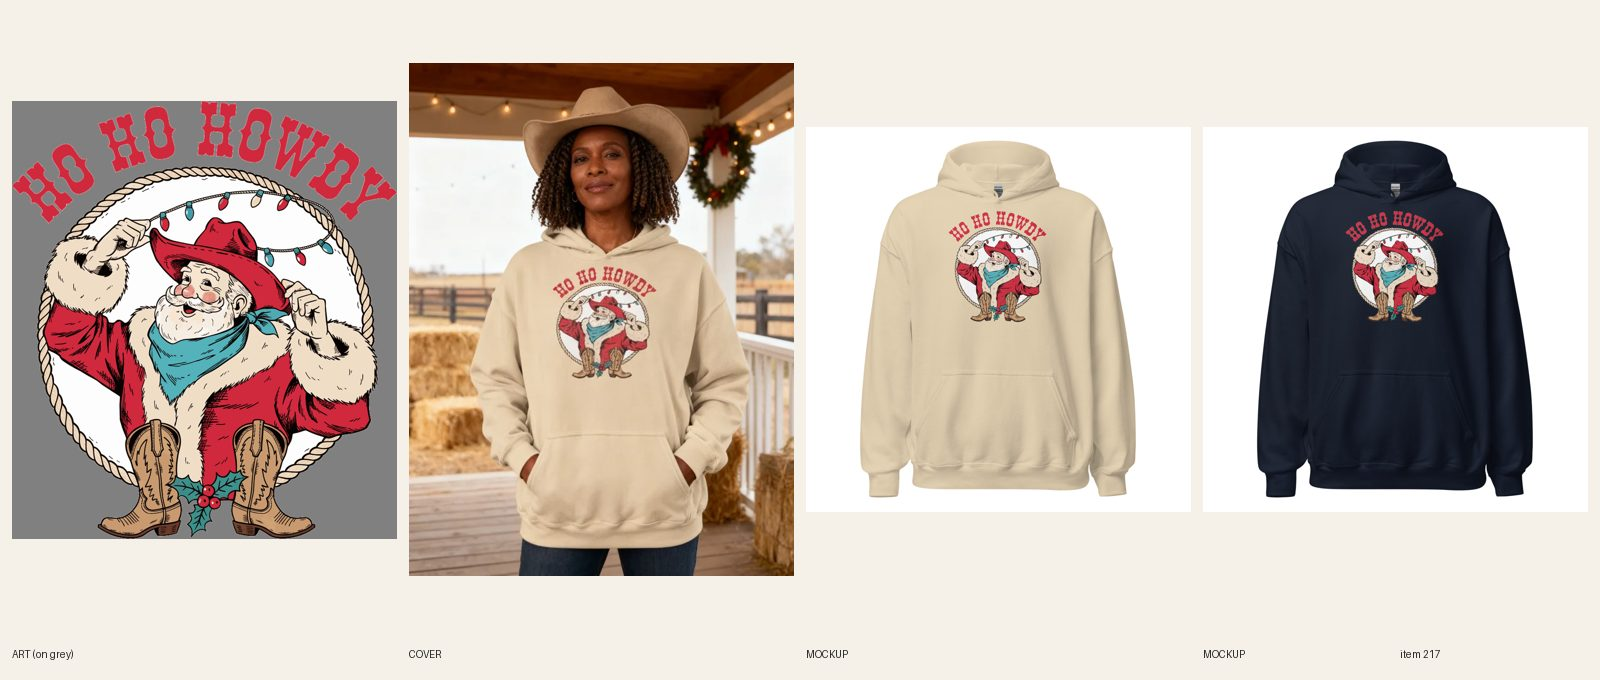
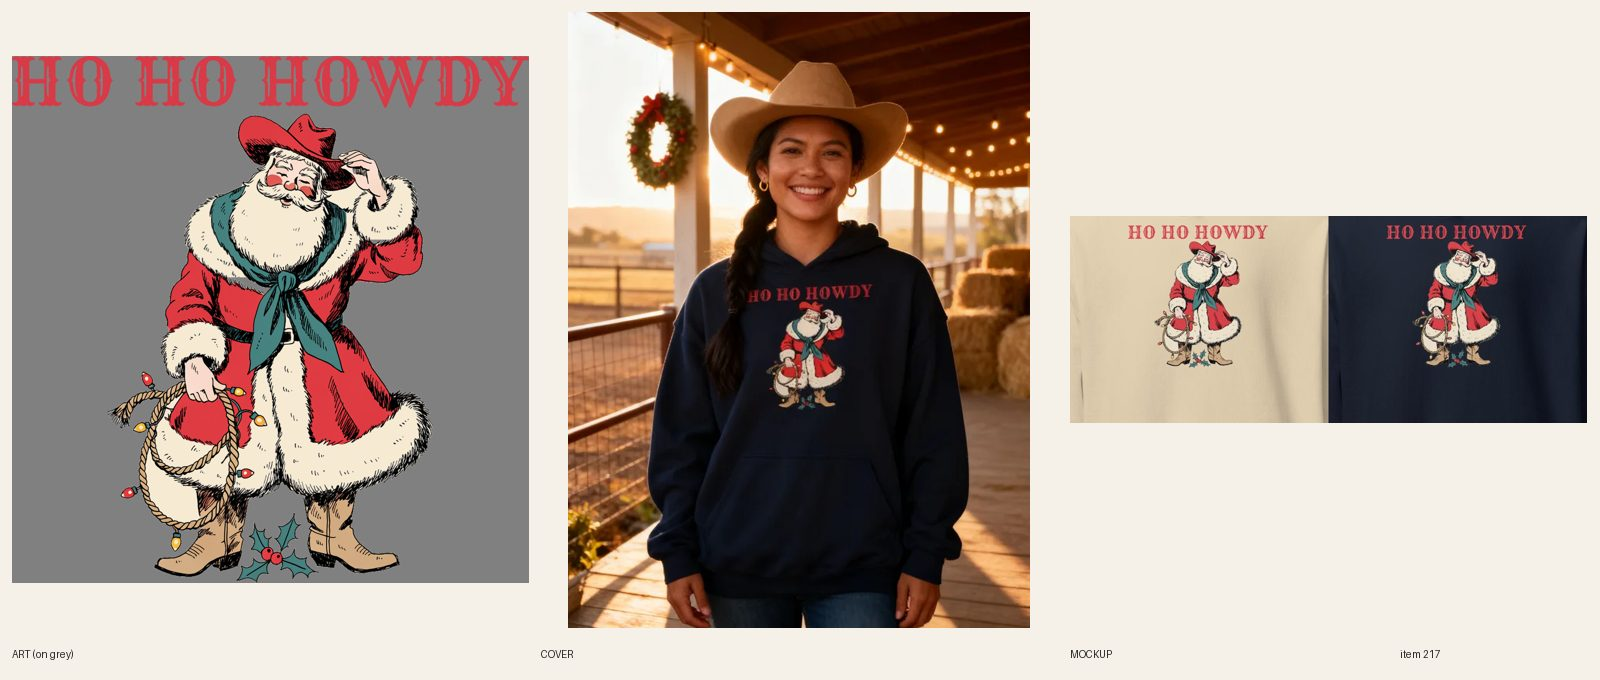
[A] 217 ho ho howdy hoodie redo built (resync running)

diff --git a/src/data/covers.ts b/src/data/covers.ts
@@ -221,7 +221,7 @@ export const covers: Record<string, { src: string; alt: string }> = {
   'mens-hunting-quack-of-dawn-camo-hoodie': { src: '/covers/mens-hunting-quack-of-dawn-camo-hoodie.webp', alt: 'Man in his late 30s with a long braid standing at a misty marsh at sunrise with duck decoys behind him, wearing the Quack of Dawn duck camo hoodie' },
   'mens-fishing-casting-doubt-zip-hoodie': { src: '/covers/mens-fishing-casting-doubt-zip-hoodie.webp', alt: 'Man in his late 40s with a ginger beard and a bucket hat seen from behind beside a mountain trout stream at first light, wearing the Casting Doubt zip hoodie in ash with the full back print' },
   'womens-christmas-hello-winter-snowflakes-hoodie': { src: '/covers/womens-christmas-hello-winter-snowflakes-hoodie.webp', alt: 'Woman with a sleek black bob and pearl studs in a Sport Grey Hello Winter snowflakes hoodie on a snowy small-town sidewalk with string lights' },
-  'womens-christmas-ho-ho-howdy-hoodie': { src: '/covers/womens-christmas-ho-ho-howdy-hoodie.webp', alt: 'Woman in a cowboy hat with a twist-out in a Sand Ho Ho Howdy cowboy Santa hoodie on a ranch porch with a wreath and hay bales' },
+  'womens-christmas-ho-ho-howdy-hoodie': { src: '/covers/womens-christmas-ho-ho-howdy-hoodie.webp', alt: 'Woman in a cowboy hat with a long dark braid in a Navy Ho Ho Howdy cowboy Santa hoodie on a ranch porch with a wreath and hay bales' },
   'womens-christmas-pink-christmas-trees-crewneck-sweatshirt': { src: '/covers/womens-christmas-pink-christmas-trees-crewneck-sweatshirt.webp', alt: 'Woman smiling in front of a gray and peach wall, wearing the light pink Pink Christmas Trees crewneck sweatshirt' },
   'womens-western-howdy-hoodie': { src: '/covers/womens-western-howdy-hoodie.webp', alt: 'Woman in a tan cowgirl hat at a rodeo arena fence at sunset wearing the Howdy navy hoodie with the pink cowgirl hat and steer skull print' },
   'womens-christmas-o-holy-night-crewneck-sweatshirt': { src: '/covers/womens-christmas-o-holy-night-crewneck-sweatshirt.webp', alt: 'Woman in her late 50s with short grey natural hair and glasses on a chain in a navy O Holy Night crewneck sweatshirt on the snowy steps of a small white church at night, service program in her hand at her side' },

diff --git a/docs/pipeline/217-christmas-hoodie-ho-ho-howdy.md b/docs/pipeline/217-christmas-hoodie-ho-ho-howdy.md
@@ -1,4 +1,4 @@
-status: REDO
+status: BUILDING [A] 2026-10-17 20:20 UTC
 lane: A
 type: twin
 id: 217
@@ -25,3 +25,4 @@ handle: womens-christmas-ho-ho-howdy-hoodie
   2. R5.3.8: the white disc and the white fur would print as big white blobs; only planned cream ink stays.
   3. R3.7.6: HO HO HOWDY reads as a clean western display font (even stroke, even spacing). Hand-letter it with worn edges in the redraw.
   The live tee keeps its art (R3.9); this twin gets the frameless version.
+- 2026-10-17 20:20 UTC builder [A] REDO 217: new frameless art (1 Recraft call, no lettering): Santa in red cowboy hat + teal bandana tipping the hat, light-string rope coiled loose in the other hand, boots + holly, no ring/disc/frame. print-prep --solid, patched two fur holes (cuff, left collar), white fur/beard recolored to planned cream ink (246,234,210), no free pure white. HO HO HOWDY re-set in Rye with a worn speckle (not the clean display font). New print 3415x3483, Printful file 1088444337, FW 1500 TOP 0 (about 10.2 in tall). Checked on Sand and Navy mockups at phone size. New fal cover (hoodie in Navy, woman reg 804, 2 attempts: try 1 hair covered the first H; try 2 kept, braid edge just touches the H and Santa's face is soft on the cover; director to judge). Copy: art paragraph rewritten to match the new art (no overhead lasso, teal not turquoise), FAQ 5 x 40-60 words incl. Dec 8, SEO meta. Audit PASS. fal ~ $0.14. Printful resync running: REVIEW once synced = 12.

diff --git a/docs/model-registry.md b/docs/model-registry.md
@@ -585,3 +585,4 @@ Rows 11–43 were re-pointed on 2026-10-08 when the briefs were rewritten from d
 | 801 | Pakistani-American man, early 40s, short dark hair, trimmed beard | USED 2026-10-17 — #205 North Woods Moose hoodie cover redo (with #802, seedream, 1 attempt; hoods visible, woman's CHRISTMAS slightly soft) |
 | 802 | Black woman, mid 30s, natural curls under a cream knit beanie, small gold hoops | USED 2026-10-17 — #205 North Woods Moose hoodie cover redo (with #801) |
 | 803 | Korean-American woman, late 20s, sleek black bob with wispy bangs, small pearl studs | USED 2026-10-17 — #216 Hello Winter hoodie cover redo (seedream, 1 attempt) |
+| 804 | Native Hawaiian woman, early 30s, long dark hair in a single braid, small gold hoops, tan cowboy hat | USED 2026-10-17 — #217 Ho Ho Howdy hoodie cover redo (seedream, 2 attempts: try 1 hair covered the first H; try 2 kept, braid just touches the H edge, Santa's face soft) |
